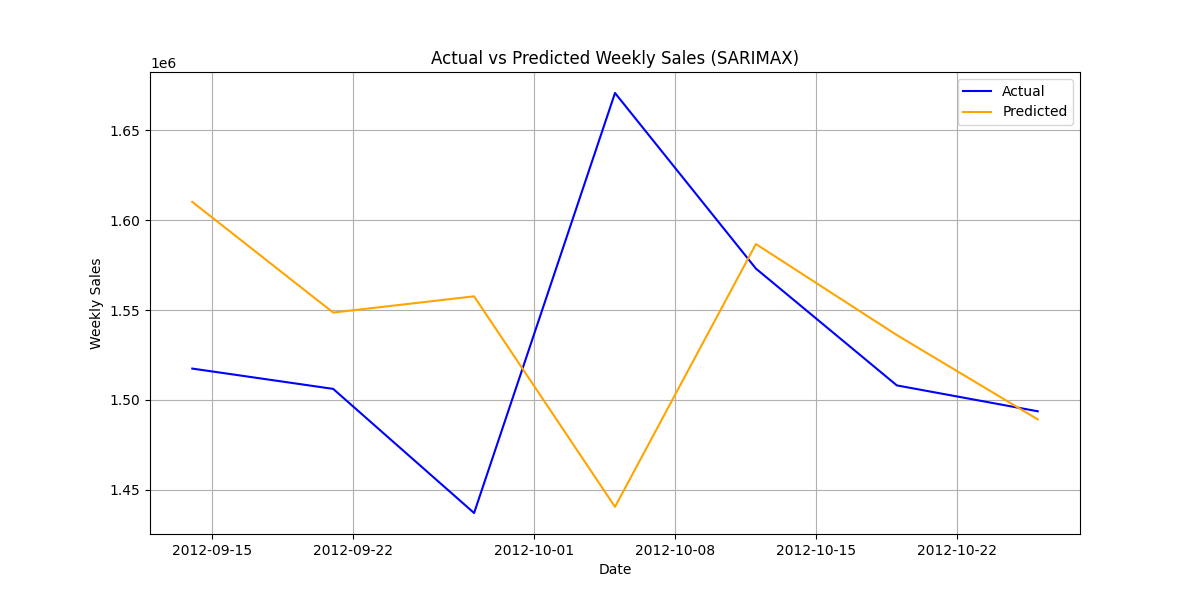
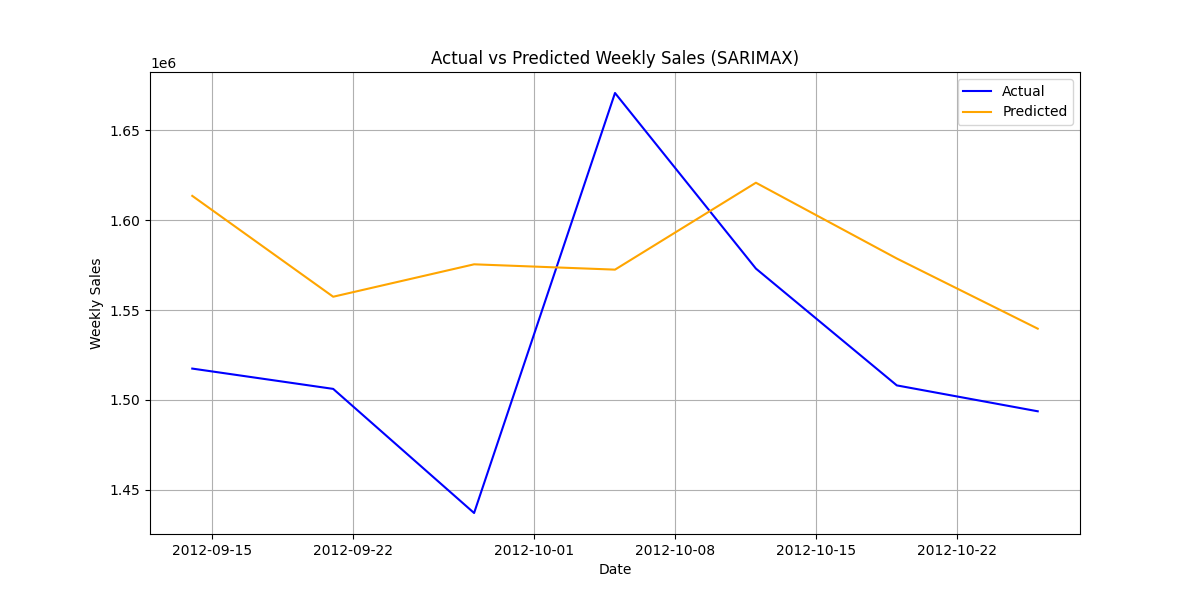
Finished! -- at 10:17 AM, Saturday, 13 Dec 2025

diff --git a/scripts/walmart_data_forecasting/sarimax_forecasting.py b/scripts/walmart_data_forecasting/sarimax_forecasting.py
@@ -434,7 +434,7 @@ for store in stores:
         q_range=range(0, 3),
         P_range=range(0, 3),
         Q_range=range(0, 2),
-        d=1,
+        d=0,
         D=0,
         s=2,
         verbose=True
